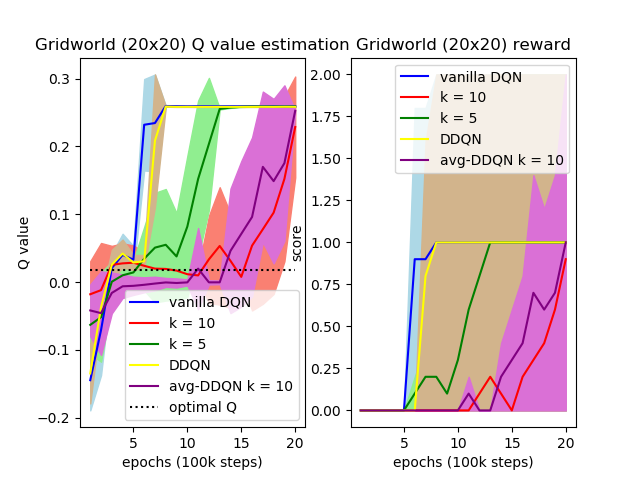
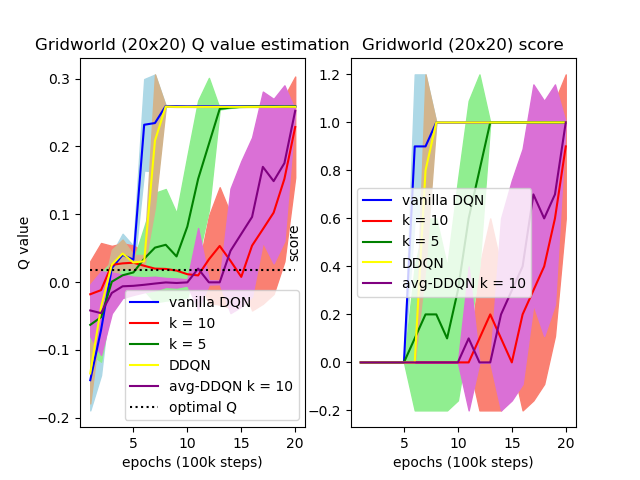
update

diff --git a/gridworld/result/plot.py b/gridworld/result/plot.py
@@ -163,7 +163,7 @@ ax2.plot(np.arange(n_epoch)+1, avg_DDQN_reward_mean, color='purple', label='avg-
 ax2.fill_between(np.arange(n_epoch)+1, np.array(avg_DDQN_reward_mean)-np.array(avg_DDQN_reward_std), np.array(avg_DDQN_reward_mean)+np.array(avg_DDQN_reward_std), color='orchid')
 
 ax1.set_title('Gridworld (20x20) Q value estimation')
-ax2.set_title('Gridworld (20x20) reward')
+ax2.set_title('Gridworld (20x20) score')
 
 ax1.set_xlabel('epochs (100k steps)')
 ax1.set_ylabel('Q value')
